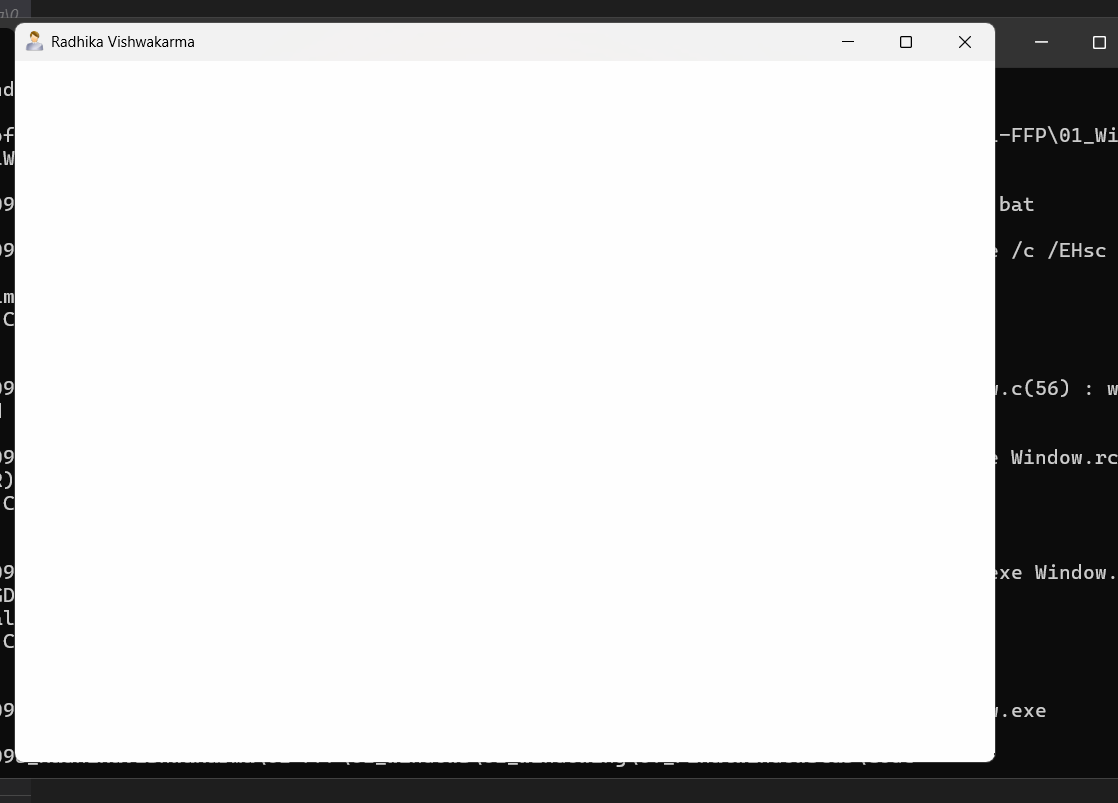
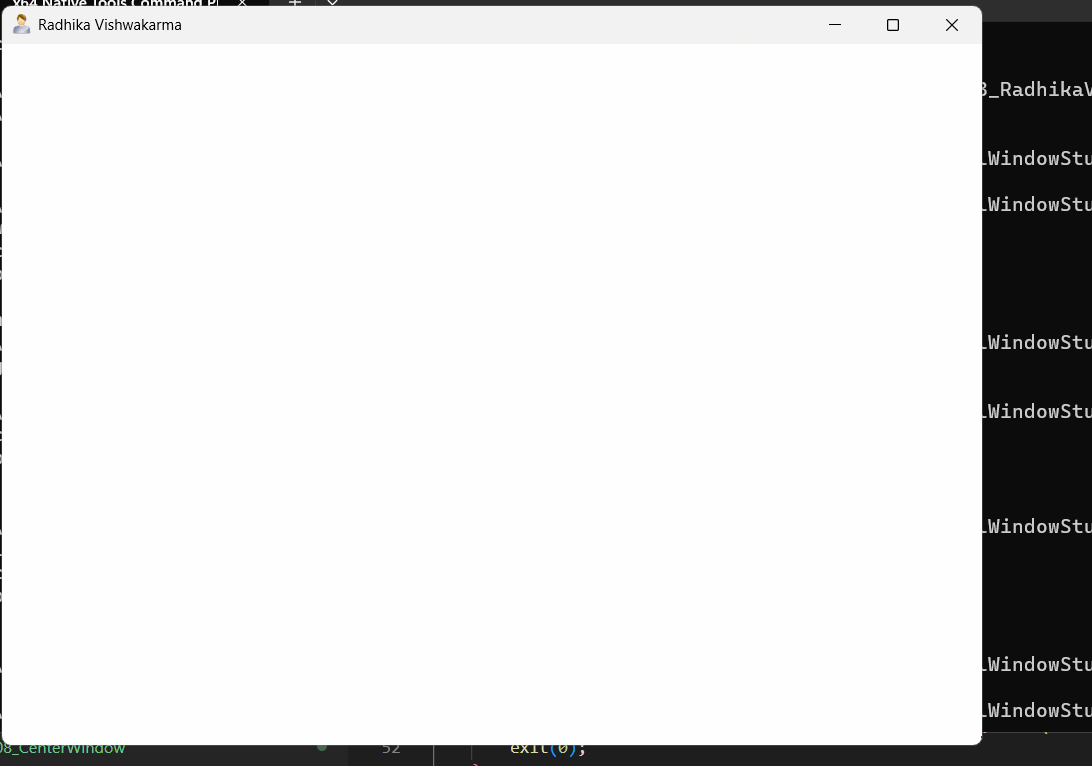
Added Center Window

diff --git a/01-FFP/01_Windows/01_Windowing/08_CenterWindow/Code/Window.c b/01-FFP/01_Windows/01_Windowing/08_CenterWindow/Code/Window.c
@@ -42,6 +42,11 @@ int WINAPI WinMain(HINSTANCE hInstance, HINSTANCE hPrevInstance, LPSTR lpszCmdLi
 	MSG msg;
 	TCHAR szAppName[] = TEXT("RTR6");
 	BOOL bDone = FALSE;
+
+	int smX = GetSystemMetrics(SM_CXSCREEN);
+	int smY = GetSystemMetrics(SM_CYSCREEN);
+	int x = smX / 2 - WIN_WIDTH / 2;
+	int y = smY / 2 - WIN_HEIGHT / 2;
 	
 	// code
 	// Create log file
@@ -79,8 +84,8 @@ int WINAPI WinMain(HINSTANCE hInstance, HINSTANCE hPrevInstance, LPSTR lpszCmdLi
 		szAppName,
 		TEXT("Radhika Vishwakarma"),
 		WS_OVERLAPPEDWINDOW | WS_CLIPCHILDREN | WS_CLIPSIBLINGS | WS_VISIBLE,
-		CW_USEDEFAULT,
-		CW_USEDEFAULT,
+		x,
+		y,
 		WIN_WIDTH,
 		WIN_HEIGHT,
 		NULL,

diff --git a/01-FFP/01_Windows/01_Windowing/08_CenterWindow/Code/Window.h b/01-FFP/01_Windows/01_Windowing/08_CenterWindow/Code/Window.h
@@ -1,0 +1,3 @@
+#pragma once
+
+#define MYICON 101
